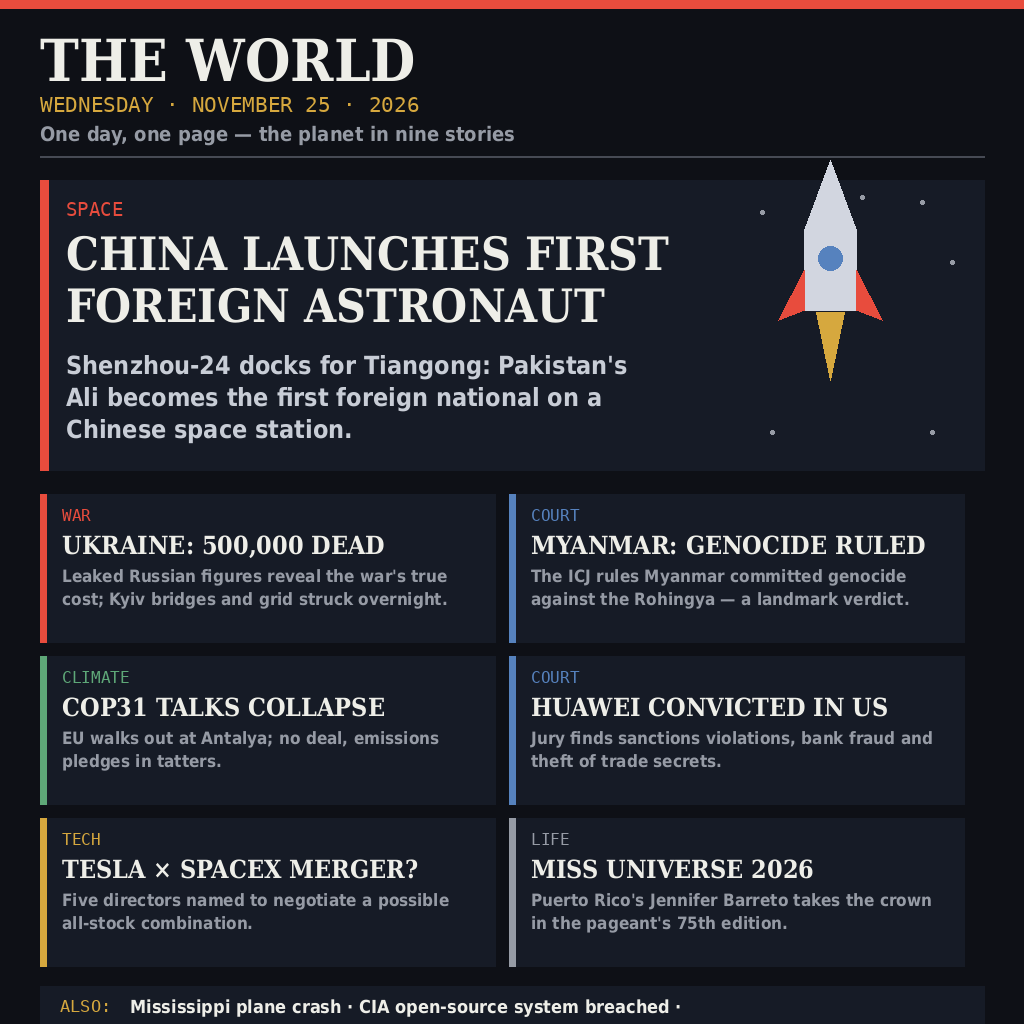
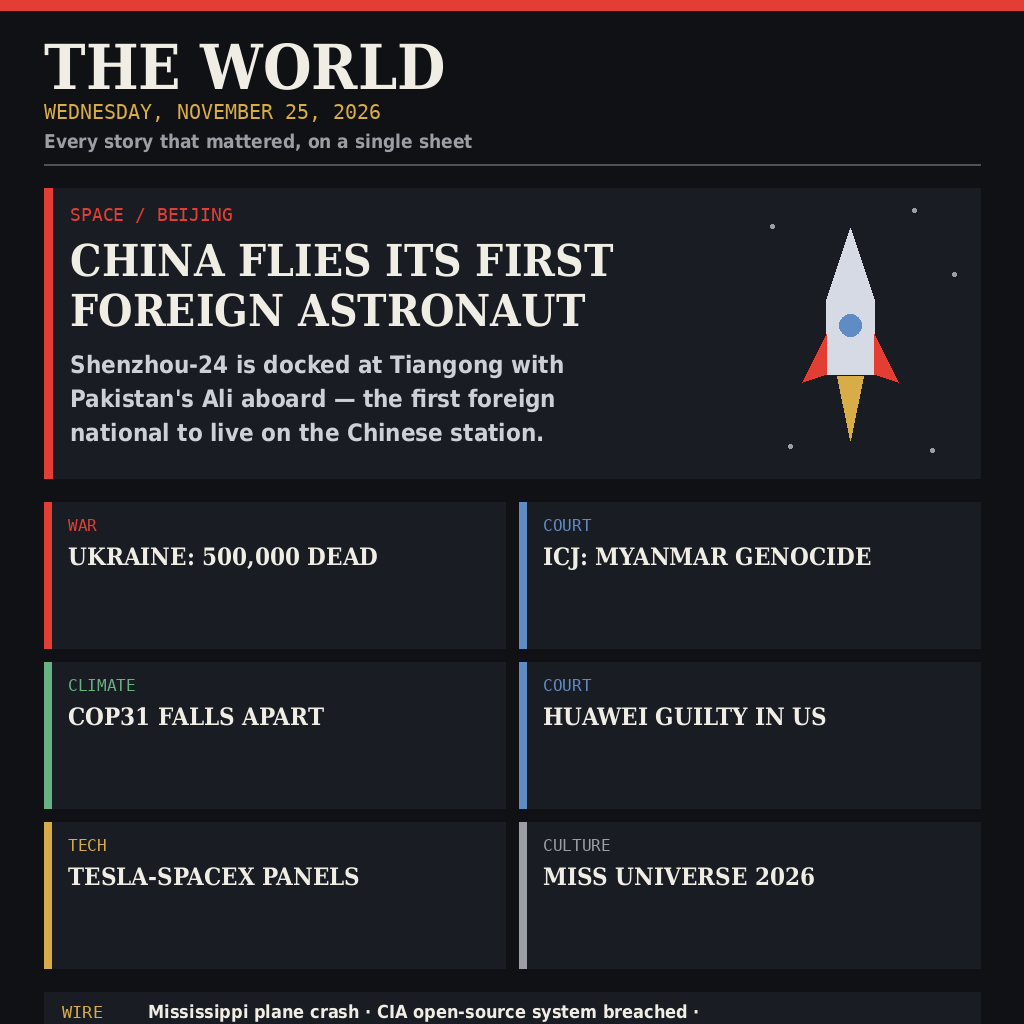
author fresh news front-page generator; verify deterministic copy

diff --git a/gen_news.py b/gen_news.py
@@ -1,0 +1,131 @@
+#!/usr/bin/env python3
+"""Front page of THE WORLD — Wednesday, 25 November 2026.
+
+Build-time generator: renders the dark broadsheet layout (1024x1024 PNG)
+that ships in the repo as entry.png. Runs are deterministic: no randomness,
+no timestamps, fixed font sizes and spacing everywhere.
+"""
+from PIL import Image, ImageDraw, ImageFont
+
+S = 1024
+INK = (16, 17, 20)        # page background
+PAPER = (240, 237, 228)   # main headline colour
+ASH = (156, 158, 166)     # secondary text
+CARD = (26, 28, 35)       # story panels
+RULE = (78, 80, 90)       # hairlines
+RED = (226, 62, 52)       # masthead accent
+AMBER = (216, 172, 70)
+STEEL = (96, 140, 198)
+JADE = (102, 178, 128)
+
+FONT_DIR = '/usr/share/fonts/truetype/dejavu/'
+
+def face(key, px):
+    files = {
+        'head': 'DejaVuSerifCondensed-Bold.ttf',
+        'kick': 'DejaVuSansMono-Bold.ttf',
+        'tick': 'DejaVuSansMono.ttf',
+        'body': 'DejaVuSansCondensed-Bold.ttf',
+    }
+    return ImageFont.truetype(FONT_DIR + files[key], px)
+
+page = Image.new('RGB', (S, S), INK)
+brush = ImageDraw.Draw(page)
+
+MARGIN = 44
+EDGE = S - MARGIN
+
+# ---------------------------------------------------------------- masthead
+brush.rectangle([0, 0, S, 10], fill=RED)
+brush.text((MARGIN, 30), 'THE WORLD', font=face('head', 62), fill=PAPER)
+brush.text((MARGIN, 100), 'WEDNESDAY, NOVEMBER 25, 2026', font=face('tick', 20), fill=AMBER)
+brush.text((MARGIN, 130), 'Every story that mattered, on a single sheet', font=face('body', 19), fill=ASH)
+brush.line([MARGIN, 164, EDGE, 164], fill=RULE, width=2)
+
+# ------------------------------------------------------- hero: space story
+TOP, BOT = 188, 478
+brush.rectangle([MARGIN, TOP, EDGE, BOT], fill=CARD)
+brush.rectangle([MARGIN, TOP, MARGIN + 8, BOT], fill=RED)
+brush.text((MARGIN + 26, TOP + 16), 'SPACE / BEIJING', font=face('tick', 18), fill=RED)
+brush.text((MARGIN + 26, TOP + 46), 'CHINA FLIES ITS FIRST', font=face('head', 44), fill=PAPER)
+brush.text((MARGIN + 26, TOP + 96), 'FOREIGN ASTRONAUT', font=face('head', 44), fill=PAPER)
+
+hero_body = ("Shenzhou-24 is docked at Tiangong with Pakistan's Ali aboard — "
+             "the first foreign national to live on the Chinese station.")
+hx, hy = MARGIN + 26, TOP + 162
+words = hero_body.split()
+cursor = ''
+row = 0
+for w in words:
+    trial = (cursor + ' ' + w).strip()
+    if brush.textlength(trial, font=face('body', 24)) > (EDGE - hx - 380):
+        brush.text((hx, hy + row * 34), cursor, font=face('body', 24), fill=(206, 208, 216))
+        cursor, row = w, row + 1
+    else:
+        cursor = trial
+brush.text((hx, hy + row * 34), cursor, font=face('body', 24), fill=(206, 208, 216))
+
+# simple rocket illustration, right side of the hero panel
+cx, cy = 850, 316
+brush.polygon([(cx, cy - 88), (cx + 24, cy - 16), (cx - 24, cy - 16)], fill=(214, 218, 228))
+brush.rectangle([cx - 24, cy - 16, cx + 24, cy + 58], fill=(214, 218, 228))
+brush.polygon([(cx - 24, cy + 18), (cx - 48, cy + 66), (cx - 24, cy + 58)], fill=RED)
+brush.polygon([(cx + 24, cy + 18), (cx + 48, cy + 66), (cx + 24, cy + 58)], fill=RED)
+brush.ellipse([cx - 11, cy - 2, cx + 11, cy + 20], fill=STEEL)
+brush.polygon([(cx - 13, cy + 60), (cx + 13, cy + 60), (cx, cy + 124)], fill=AMBER)
+for sx, sy in [(770, 224), (912, 208), (952, 272), (788, 444), (930, 448)]:
+    brush.ellipse([sx, sy, sx + 4, sy + 4], fill=ASH)
+
+# ------------------------------------------------------------ story grid
+cells = [
+    ('WAR', RED, 'UKRAINE: 500,000 DEAD',
+     "A leaked Russian tally exposes the war's true toll; Kyiv's bridges and power grid hit overnight."),
+    ('COURT', STEEL, 'ICJ: MYANMAR GENOCIDE',
+     'The World Court rules the campaign against the Rohingya amounted to genocide.'),
+    ('CLIMATE', JADE, 'COP31 FALLS APART',
+     'Talks end in acrimony at Antalya as the EU delegation walks out; pledges stall.'),
+    ('COURT', STEEL, 'HUAWEI GUILTY IN US',
+     'Convicted of sanctions breaches, bank fraud and stealing trade secrets.'),
+    ('TECH', AMBER, 'TESLA-SPACEX PANELS',
+     'Directors seated on five committees to weigh an all-stock combination.'),
+    ('CULTURE', ASH, 'MISS UNIVERSE 2026',
+     "Jennifer Barreto of Puerto Rico wins the pageant's 75th crown."),
+]
+
+GX, GY = 14, 14
+CW, CH = (EDGE - MARGIN - GX) // 2, 146
+gy0 = 502
+for idx, (tag, hue, title, blurb) in enumerate(cells):
+    col, row = idx % 2, idx // 2
+    x = MARGIN + col * (CW + GX)
+    y = gy0 + row * (CH + GY)
+    brush.rectangle([x, y, x + CW, y + CH], fill=CARD)
+    brush.rectangle([x, y, x + 7, y + CH], fill=hue)
+    brush.text((x + 24, y + 14), tag, font=face('tick', 16), fill=hue)
+    brush.text((x + 24, y + 40), title, font=face('head', 24), fill=PAPER)
+    # wrap blurb to the card width, measured not guessed
+    inner = CW - 48
+    bx, by, line, n = x + 24, y + 76, '', 0
+    for w in blurb.split():
+        t = (line + ' ' + w).strip()
+        if brush.textlength(t, font=face('body', 18)) > inner:
+            brush.text((bx, by + n * 24), line, font=face('body', 18), fill=ASH)
+            line, n = w, n + 1
+    brush.text((bx, by + n * 24), line, font=face('body', 18), fill=ASH)
+
+# --------------------------------------------------------- footer ticker
+ty = gy0 + 3 * (CH + GY) + 10
+brush.rectangle([MARGIN, ty, EDGE, ty + 64], fill=CARD)
+brush.text((MARGIN + 18, ty + 10), 'WIRE', font=face('tick', 17), fill=AMBER)
+brush.text((MARGIN + 104, ty + 9),
+           'Mississippi plane crash · CIA open-source system breached ·',
+           font=face('body', 18), fill=PAPER)
+brush.text((MARGIN + 104, ty + 37),
+           'Bangladesh garment wages +36% · US-Iran war funded through January',
+           font=face('body', 18), fill=PAPER)
+brush.line([MARGIN, ty + 76, EDGE, ty + 76], fill=RULE, width=2)
+brush.text((MARGIN, ty + 86), 'THE WORLD — page one of one',
+           font=face('tick', 15), fill=ASH)
+
+page.save('/home/hermes2/makefun/news-image/repo/entry.png', 'PNG', optimize=True)
+print('rendered', page.size)

diff --git a/main.py b/main.py
@@ -1,9 +1,14 @@
-"""Copy the committed 2026-11-25 news front page to /output/entry.png (deterministic)."""
+"""Ship the committed front page: copy entry.png to the output dir, byte-exact.
+
+Stdlib only. The render (gen_news.py) is done at build time; this script is
+what the competition runner executes.
+"""
 import os
 import shutil
 
-src = os.path.join(os.path.dirname(os.path.abspath(__file__)), 'entry.png')
-dst_dir = os.environ.get('MAKEFUN_OUTPUT_DIR', '/output')
-os.makedirs(dst_dir, exist_ok=True)
-shutil.copyfile(src, os.path.join(dst_dir, 'entry.png'))
-print('entry.png written')
+HERE = os.path.dirname(os.path.abspath(__file__))
+src = os.path.join(HERE, 'entry.png')
+out_dir = os.environ.get('MAKEFUN_OUTPUT_DIR', '/output')
+os.makedirs(out_dir, exist_ok=True)
+shutil.copyfile(src, os.path.join(out_dir, 'entry.png'))
+print('entry.png ->', out_dir)

diff --git a/README.md b/README.md
@@ -1,23 +1,27 @@
-# News Image — 25 November 2026
+# THE WORLD — News Front Page, 25 November 2026
 
-One-page editorial front page summing the world's news of Wednesday 25 November 2026,
-rendered as a fixed 1024x1024 PNG (dark broadsheet style, nine stories).
+A 1024x1024 PNG rendering the world's news of Wednesday 25 November 2026 as a
+single dark editorial broadsheet: masthead, hero story (China's first foreign
+astronaut, Shenzhou-24 / Tiangong), a six-story grid, and a wire ticker.
 
 ## Run
 
 ```sh
-python3 main.py --input /input
+python3 main.py
 ```
 
-The program copies the committed `entry.png` to `$MAKEFUN_OUTPUT_DIR` (default `/output`),
-byte-identical on every run. `gen.py` is the generator used to produce it (Pillow,
-build-time only — not needed to run).
+Copies the committed `entry.png` to `$MAKEFUN_OUTPUT_DIR` (default `/output`),
+byte-identical on every run. `main.py` is stdlib-only; Pillow was only needed
+at build time to run `gen_news.py`, the generator that produced the image.
 
-## Stories on the page
+## Contents
 
-China's first foreign astronaut (Shenzhou-24 / Tiangong) · leaked 500,000 Russian dead ·
-ICJ Rohingya genocide ruling · COP31 collapse · Huawei conviction in the US ·
-Tesla-SpaceX merger committees · Miss Universe 2026 · Mississippi plane crash ·
-CIA open-source breach · Bangladesh garment wages.
+Hero: China flies its first foreign astronaut. Grid: Ukraine's leaked 500,000
+dead figure · ICJ rules Myanmar genocide · COP31 collapse in Antalya · Huawei
+convicted in the US · Tesla-SpaceX merger committees · Miss Universe 2026.
+Wire: Mississippi plane crash · CIA open-source breach · Bangladesh garment
+wages +36% · US-Iran war funded through January.
 
-MIT licensed.
+## License
+
+MIT — see `LICENSE`.
